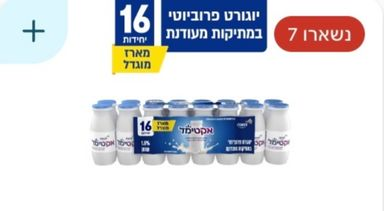
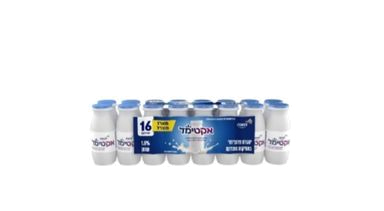
Photos retouchées par le gérant : dossiers 2 et 3 (20 de plus)
Vingt photos repère de plus dont il a effacé le « + », les pastilles et
l'étiquette de poids de Wolt : les deux étuis Nespresso qui manquaient,
le reste de l'épicerie (céréales, concentré de tomates, farine, feuilles
de vigne, huile, ketchup, mayonnaise, Nescafé, Nutella, riz, sucre, thon,
salades du traiteur) et trois Actimel. 30 sur 718 : tout le rayon
« Courses & épicerie » est fait.

L'outil reconnaît maintenant une retouche à ce qu'elle montre : tout ce
qui s'y voit était déjà dans la photo en service (une retouche efface et
n'ajoute rien). L'ancienne mesure, au centre de l'image, refusait une
photo dont une pastille touchait l'article, et un article détouré de son
fond gris.

Claude-Session: https://claude.ai/code/session_01JfiBMDfPpcu8d2j1eWQu1s

Changed region(s): [[0.2812, 0.0, 0.9688, 0.3697], [0.0, 0.0, 0.1875, 0.3128]]

diff --git a/tests/outils/poser-photos-retouchees.ts b/tests/outils/poser-photos-retouchees.ts
@@ -8,8 +8,9 @@
 //
 // Une image est reconnue à son NOM DE FICHIER : le nom de l'article, tel que l'export des photos le lui a donné
 // (« Lait Tnuva 3 % 1 L.jpg »), ou le nom du fichier repère. Elle n'est posée que si c'est bien LA MÊME photo
-// retouchée : même taille, et le même article au centre de l'image. Une AUTRE photo du même article n'est pas
-// une retouche : elle se pose comme photo de l'article (« Photos rapides »), pas ici.
+// retouchée : même taille, et tout ce qu'elle montre était déjà dans la photo en service (il efface le « + », une
+// pastille, une étiquette de poids posée par Wolt, parfois tout le fond — il n'ajoute rien). Une AUTRE photo du
+// même article n'est pas une retouche : elle se pose comme photo de l'article (« Photos rapides »), pas ici.
 // Les images reçues sont des données : on n'en lit que les points, rien n'en est exécuté.
 import { readdirSync, readFileSync, statSync, writeFileSync } from "node:fs";
 import path from "node:path";
@@ -19,8 +20,13 @@ import { DOSSIER_DES_REPERES, PHOTOS_REPERE } from "../../lib/reperes-wolt";
 /** Les repères déjà retouchés : fichier → le lot qui l'a apporté. Pour savoir où l'on en est. */
 const REGISTRE = "prive/reperes-retouches.json";
 const POIDS_MAX = 40_000; // comme tests/reperes-wolt.test.ts
-/** Écart moyen toléré au centre de l'image, sur 255 : au-delà, ce n'est pas la même photo. */
-const ECART_MAX = 8;
+/** Ce que la retouche montre doit se retrouver, presque point pour point, dans la photo en service… */
+const PART_DEJA_LA = 0.9;
+/**
+ * … et il doit rester une part de la photo en service : l'article lui-même. Une part seulement : sur une photo à
+ * fond gris (les salades du traiteur), il DÉTOURE l'article et tout le fond disparaît — il en reste un bon tiers.
+ */
+const PART_GARDEE = 0.2;
 
 /** Le nom de fichier que l'export des photos donne à un article (les signes interdits dans un nom de fichier retirés). */
 export function nomDeFichier(nom: string): string {
@@ -30,10 +36,23 @@ export function nomDeFichier(nom: string): string {
 const fichiersDe = (dossier: string): string[] =>
   readdirSync(dossier, { withFileTypes: true }).flatMap((e) => (e.isDirectory() ? fichiersDe(path.join(dossier, e.name)) : [path.join(dossier, e.name)]));
 
-/** Les points du centre de l'image (là où est l'article, loin du coin où Wolt pose son « + »), en niveaux de rouge, vert, bleu. */
-async function centre(octets: Buffer, largeur: number, hauteur: number): Promise<Buffer> {
-  const zone = { left: Math.round(largeur * 0.25), top: Math.round(hauteur * 0.2), width: Math.round(largeur * 0.55), height: Math.round(hauteur * 0.75) };
-  return sharp(octets).flatten({ background: "#ffffff" }).removeAlpha().extract(zone).raw().toBuffer();
+/** Les points de l'image, trois nombres chacun (rouge, vert, bleu), sur fond blanc. */
+const points = (octets: Buffer): Promise<Buffer> => sharp(octets).flatten({ background: "#ffffff" }).removeAlpha().raw().toBuffer();
+
+/**
+ * Deux images de même taille : `dejaLa` = la part de ce que montre la retouche (tout ce qui n'est pas blanc) qui
+ * est identique dans la photo en service ; `gardee` = la part de la photo en service qui est restée. Une retouche
+ * efface (le « + », une pastille) : dejaLa ≈ 1. Une autre photo, ou la photo d'un autre article : dejaLa bas.
+ */
+export function ressemblance(avant: Buffer, apres: Buffer): { dejaLa: number; gardee: number } {
+  const plein = (b: Buffer, i: number) => Math.min(b[i], b[i + 1], b[i + 2]) < 232;
+  let montre = 0, montreDejaLa = 0, avait = 0, avaitGarde = 0;
+  for (let i = 0; i + 2 < avant.length; i += 3) {
+    const pareil = Math.max(Math.abs(avant[i] - apres[i]), Math.abs(avant[i + 1] - apres[i + 1]), Math.abs(avant[i + 2] - apres[i + 2])) < 30;
+    if (plein(apres, i)) { montre++; if (pareil) montreDejaLa++; }
+    if (plein(avant, i)) { avait++; if (pareil) avaitGarde++; }
+  }
+  return { dejaLa: montre === 0 ? 0 : montreDejaLa / montre, gardee: avait === 0 ? 0 : avaitGarde / avait };
 }
 
 async function principal() {
@@ -63,16 +82,16 @@ async function principal() {
         refusees.push(`${nom} : ${apres.width} × ${apres.height}, la photo en service fait ${avant.width} × ${avant.height} — ce n'est pas une retouche`);
         continue;
       }
-      const [a, b] = await Promise.all([centre(readFileSync(cible), avant.width!, avant.height!), centre(recu, avant.width!, avant.height!)]);
-      let somme = 0;
-      for (let i = 0; i < a.length; i++) somme += Math.abs(a[i] - b[i]);
-      const ecart = somme / a.length;
-      if (ecart > ECART_MAX) { refusees.push(`${nom} : ce n'est pas la même photo que celle de l'article (écart ${ecart.toFixed(1)})`); continue; }
+      const r = ressemblance(await points(readFileSync(cible)), await points(recu));
+      if (r.dejaLa < PART_DEJA_LA || r.gardee < PART_GARDEE) {
+        refusees.push(`${nom} : ce n'est pas la photo en service retouchée (${Math.round(r.dejaLa * 100)} % de ce qu'elle montre y était, ${Math.round(r.gardee * 100)} % en est resté)`);
+        continue;
+      }
       // Un JPEG léger est posé tel quel ; sinon il est réécrit en JPEG.
       const jpeg = apres.format === "jpeg" && recu.length < POIDS_MAX ? recu : await sharp(recu).flatten({ background: "#ffffff" }).jpeg({ quality: 88 }).toBuffer();
       if (jpeg.length >= POIDS_MAX) { refusees.push(`${nom} : trop lourde (${jpeg.length} octets)`); continue; }
       if (poser) { writeFileSync(cible, jpeg); registre[fichier] = lot; }
-      posees.push(`${fichier}  ←  ${nom}`);
+      posees.push(`${fichier}  ←  ${nom}  (${Math.round(r.gardee * 100)} % de la photo gardée)`);
     } catch (e) {
       refusees.push(`${nom} : illisible (${e instanceof Error ? e.message : "erreur"})`);
     }

diff --git a/tests/reperes-wolt.test.ts b/tests/reperes-wolt.test.ts
@@ -4,7 +4,7 @@ import path from "node:path";
 import { describe, expect, it } from "vitest";
 import { DOSSIER_DES_REPERES, NOMBRE_DE_PHOTOS_REPERE, PHOTOS_REPERE, estPhotoRepere, photoRepere } from "@/lib/reperes-wolt";
 import { repereWolt } from "@/lib/repere-wolt";
-import { nomDeFichier } from "./outils/poser-photos-retouchees";
+import { nomDeFichier, ressemblance } from "./outils/poser-photos-retouchees";
 import { LOTS_WOLT } from "../prisma/remplissage";
 import { RELEVE_DU_12_NOVEMBRE, RELEVE_DU_POISSON_SURGELE, REMPLACEMENTS_DU_12_NOVEMBRE } from "../prisma/releve-wolt-1112";
 import { RELEVE_DES_BOISSONS } from "../prisma/articles-wolt-captures-boissons";
@@ -196,15 +196,36 @@ describe("photos repère", () => {
       expect(fichiers.has(fichier), fichier).toBe(true);
       expect(lot, fichier).toMatch(/^\d{4}-\d{2}-\d{2} · /);
     }
-    // Le premier lot : dix étuis de capsules Nespresso.
-    expect(Object.keys(registre).filter((f) => f.startsWith("capsules-nespresso-")).length).toBeGreaterThanOrEqual(10);
-    // L'outil ne pose qu'une retouche : même taille, même article au centre de l'image, rien d'écrit hors du dossier privé.
+    // Les premiers lots : les douze étuis de capsules Nespresso, puis le reste de l'épicerie.
+    expect(Object.keys(registre).filter((f) => f.startsWith("capsules-nespresso-")).length).toBeGreaterThanOrEqual(12);
+    expect(Object.keys(registre).length).toBeGreaterThanOrEqual(30);
+    // L'outil ne pose qu'une retouche : même taille, rien que la photo en service ne montrait déjà, rien d'écrit hors du dossier privé.
     const outil = readFileSync("tests/outils/poser-photos-retouchees.ts", "utf8");
     expect(outil).toContain("const cible = path.join(DOSSIER_DES_REPERES, fichier);");
     expect(outil).toContain("avant.width !== apres.width || avant.height !== apres.height");
-    expect(outil).toContain("if (ecart > ECART_MAX)");
+    expect(outil).toContain("if (r.dejaLa < PART_DEJA_LA || r.gardee < PART_GARDEE)");
     expect(outil.match(/writeFileSync\(/g)).toHaveLength(2); // la photo, et le registre
     expect(outil).not.toMatch(/public\/|photoUrl/);
+    // Une retouche efface (le « + », une pastille, une étiquette) et n'ajoute rien ; une autre image n'en est pas une.
+    const image = (dessin: (x: number, y: number) => [number, number, number]) => Buffer.from(Array.from({ length: 40 * 20 }, (_, i) => dessin(i % 40, Math.floor(i / 40))).flat());
+    const blanc: [number, number, number] = [255, 255, 255];
+    const article = (x: number, y: number) => x >= 14 && x < 26 && y >= 4 && y < 18;
+    const enService = image((x, y) => (article(x, y) ? [200, 40, 40] : x < 8 && y < 6 ? [10, 30, 50] : x >= 30 && y >= 12 ? [0, 0, 0] : blanc));
+    const retouchee = image((x, y) => (article(x, y) ? [203, 38, 41] : blanc)); // le « + » et l'étiquette effacés
+    const autre = image((x, y) => (x >= 4 && x < 30 && y >= 2 && y < 16 ? [40, 90, 200] : blanc));
+    expect(ressemblance(enService, retouchee).dejaLa).toBe(1);
+    expect(ressemblance(enService, retouchee).gardee).toBeGreaterThan(0.5); // l'article est resté, le « + » et l'étiquette non
+    expect(ressemblance(enService, autre).dejaLa).toBeLessThan(0.5);
+    expect(ressemblance(enService, image(() => blanc))).toEqual({ dejaLa: 0, gardee: 0 }); // une image vide n'est pas une retouche
+    // Une photo à fond gris dont il détoure l'article : tout le fond disparaît, l'article reste — c'est une retouche.
+    const surFondGris = image((x, y) => (article(x, y) ? [200, 40, 40] : [205, 205, 205]));
+    const detouree = ressemblance(surFondGris, retouchee);
+    expect(detouree.dejaLa).toBe(1);
+    expect(detouree.gardee).toBeGreaterThan(0.2);
+    expect(detouree.gardee).toBeLessThan(0.4);
+    // … mais un petit bout de la photo n'en est pas une.
+    expect(ressemblance(surFondGris, image((x, y) => (x >= 14 && x < 18 && y >= 4 && y < 8 ? [200, 40, 40] : blanc))).gardee).toBeLessThan(0.2);
+    expect(outil).toContain("const PART_GARDEE = 0.2;");
     // Le nom que l'export des photos donne à un article est celui que l'outil reconnaît.
     expect(nomDeFichier("Lait Tnuva 3 % 1 L")).toBe("Lait Tnuva 3 % 1 L");
     expect(nomDeFichier('Écran 24" : modèle A/B')).toBe("Écran 24 - modèle A-B");

diff --git a/CLAUDE.md b/CLAUDE.md
@@ -71,7 +71,7 @@ npm run seed         # catégories + réglages ; seed:demo ajoute des produits d
 - **« Je n'ai pas d'images alors que je t'ai tout envoyé de Wolt »** (le gérant, 17 novembre 2026, deux captures de l'ACCUEIL PUBLIC à l'appui — des cartes d'articles avec l'icône du rayon à la place d'une photo). Ce jour-là, « mets-moi toutes les photos ! » voulait dire : montre les photos de Wolt AUX CLIENTS, sur les articles du site. On ne le fait pas, et on le lui dit sans détour : ces photos sont celles de Wolt (découpées dans ses captures, souvent avec le « + » et les pastilles de Wolt dessus) ; lui envoyer une capture ne les rend pas siennes, et les publier sur un site qui revend les articles de Wolt l'expose auprès de Wolt, dont il dépend pour ses achats. Elles restent dans son espace (les 718 articles en vente ont la leur) — c'était la réponse de l'après-midi ; prévenu, il a décidé autrement le soir même (« Photos de Wolt pour tout le monde », plus bas : sa décision, on ne la rediscute pas). Ce qu'on lui propose pour les remplacer : « Photos rapides » → « Coller » (une image qu'il choisit lui-même, de préférence la photo de la marque), la photo prise au téléphone quand il a l'article en main (« Ajouter »), ou l'accord écrit de Wolt — alors elles se publient. LEÇON : « sans images » peut désigner son espace (15 novembre) OU le site public (17 novembre) — regarder sa capture ; s'il n'y en a pas, lui demander de quel écran il parle AVANT de chercher une panne. Ce jour-là on a d'abord cherché une panne d'affichage dans son espace, à tort : il n'y en avait pas. Il en reste un contrôle utile, lisible de l'extérieur : `/admin/repere/etat` (sans connexion : des NOMBRES seulement, jamais un nom ni une photo) dit combien de photos de la liste sont lisibles sur le serveur — 718 sur 718 — et ce que le serveur qui répond a fait des demandes de photos depuis son démarrage (servies, refusées, inconnues, illisibles). Pièges rencontrés : `pkill -f "next start"` ne tue PAS le serveur (le processus s'appelle `next-server`) — un ancien serveur reste sur le port et répond à la place du nouveau : `pkill -f next-server` ; et `npm run build` signale « Dynamic filesystem access causes tracing of the whole project » pour cette route (c'est ce qui embarque les photos : ne pas le « corriger » sans relire `/admin/repere/etat` après la mise en ligne).
 - **Vue du gérant sur le site** (17 novembre 2026, sa réponse au refus ci-dessus : « oui mais grâce à ces images de Wolt je peux chercher les images qui correspondent à chaque produit — alors mets-moi les images »). C'est sur SON site qu'il regarde ses articles : quand il est connecté à son espace sur l'appareil, chaque carte et chaque fiche de la boutique dont l'article n'a pas encore sa photo montre celle de Wolt, étiquetée « Wolt ». Une seule porte : `lib/vue-gerant.ts` — `vueDuGerant()` dit qui regarde (`gerant`, `pourTous`, `photosDeWolt`, `etiquettes`), `reperesPour(liste)` donne la photo de chaque article sans photo (elle relit le `nomWolt` sans le sortir) ; les lectures de `lib/catalogue.ts` passent toutes par `versPublics`, qui pose `ProduitPublic.repere` (`{ photo, etiquette }`, ou `null` : le visiteur ne reçoit alors même pas l'adresse). Affichage : `components/admin/ApercuGerant.tsx` (`ApercuSurCarte` à la place de l'icône du rayon ; `ApercuSurFiche` : la photo entière et, pour le gérant, « Mettre sa photo » → `/admin/produits/photos#p-<id>`, la ligne de l'article visée d'office dans « Photos rapides »). L'étiquette « Wolt » et ce lien n'existent que pour le gérant (`repere.etiquette`) : le site ne nomme jamais Wolt devant un client. Sous l'en-tête, le bandeau `BandeauDuGerant` (`components/admin/VueDuGerant.tsx`, rien pour un client ; en français, de gauche à droite, même sur une page en hébreu) dit qui voit ces photos, mène à « Photos rapides » et aux réglages, et porte « Voir comme un client » / « Revenir à ma vue » (`changerLaVueDuSite`, cookie `vue_client`, douze heures : un simple choix d'affichage, qui ne vaut rien sans la connexion du gérant). Une image qu'il colle dans « Photos rapides » prend la place de la photo de Wolt, pour lui comme pour ses clients. Les pages de la boutique ne sont gardées par aucun cache partagé (`force-dynamic`, `private, no-store`) : ne jamais en ajouter un sans sortir `repere` de ce qui est gardé. Vérifier : `tests/navigateur/vue-gerant.mjs` (112 vérifications, dans les deux états du réglage ci-dessous ; il coche et décoche le réglage puis le remet : base locale seulement — `SANS_GERANT=1` sur le vrai site : la partie « client » seule, sans rien modifier), `tests/reperes-wolt.test.ts`.
 - **Photos de Wolt pour tout le monde** (décision du gérant, 17 novembre 2026 au soir : « le site a 0 client, on est 2 à bosser dessus et on ne peut pas se connecter à l'admin à chaque fois — active-moi les photos pour tout le monde »). Prévenu deux fois, le jour même, que ces photos sont celles de Wolt et des marques et de ce que cela risque auprès de Wolt, il a choisi : c'est SA décision, on l'applique sans la rediscuter. C'est un RÉGLAGE, pas du code : `Reglages.photosWoltPourTous` (Réglages → « Photos de Wolt pour tout le monde », faux par défaut dans le schéma), coché une seule fois par la mise en ligne (`montrerLesPhotosDeWoltATous`, clé dans `operationsFaites`) — s'il le décoche, il le reste. Coché : tout visiteur voit la photo de Wolt sur les articles sans photo (sans étiquette), et la route `/admin/repere/<fichier>` la sert sans connexion (`public, max-age=600` : décochée, la case fait effet en dix minutes au plus ; le réglage lui-même est relu toutes les dix secondes, `photosDeWoltPourTous`). Décoché : retour à la vue du gérant seule, la route exige de nouveau sa connexion. Dans les deux cas ces photos restent hors de `public/`, ne sont jamais copiées dans `photoUrl`, et les moteurs de recherche n'y vont pas (`/admin` fermé dans `robots.txt`, en-tête `noindex`). `/admin/repere/etat` porte `pourTous` : on lit de l'extérieur l'état du réglage. Ce qui reste vrai, à lui redire UNE fois quand il annoncera des clients (pas avant, pas à chaque message) : décocher la case, ou d'ici là remplacer les photos par les siennes dans « Photos rapides » — chaque image collée prend la place de celle de Wolt. Ne pas étendre : pas de photo de Wolt dans un e-mail, la carte d'aperçu de lien, le panier, ni comme photo enregistrée d'un article. S'il envoie une capture du site avec des photos de Wolt, c'est normal : le réglage est coché.
-- **Les photos de Wolt retouchées par le gérant** (24 novembre 2026 : « si je t'envoie un fichier zip, tu peux le décompresser ? j'ai mes nouvelles images dedans » — après avoir reçu l'export de toutes les photos du site, un ZIP rangé par rayon où chaque image porte le nom de l'article). Ses « nouvelles images » sont les MÊMES photos repère (384 × 211), dont il a effacé le « + » et les pastilles de Wolt : il les renvoie par lots, dans un ZIP, sous le nom que l'export leur a donné (« Capsules Nespresso Capriccio 60 g.jpg »). Chaque retouche REMPLACE le fichier de `prive/reperes-wolt` qu'elle retouche — même nom de fichier, donc rien d'autre ne change : le site la montre partout où il montrait l'ancienne (cartes, fiches, espace gérant), sous le même réglage « Photos de Wolt pour tout le monde », et le gérant connecté la voit toujours étiquetée « Wolt ». Elle RESTE une photo repère : jamais dans `public/`, jamais copiée dans `photoUrl` — effacer le « + » ne change pas à qui est la photo ; on le lui a dit une fois, en lui laissant le choix d'en faire les photos définitives de ces articles s'il le demande en le sachant. Poser un lot : décompresser l'archive dans un dossier vide à elle (données reçues : on n'en lit que les points), `npx tsx tests/outils/poser-photos-retouchees.ts <dossier>` (essai à blanc), puis `--poser`. L'outil ne pose qu'une vraie retouche — un article de ce nom existe, même taille que la photo en service, le même article au centre de l'image (une image glissée sous un mauvais nom est refusée), moins de 40 Ko — et note le lot dans `prive/reperes-retouches.json` (où l'on en est : 10 sur 718, les étuis de capsules Nespresso ; il en manquait deux dans son premier dossier, les deux Volluto). Regarder tout de même le lot sur une planche avant de le poser, lui dire le compte (posées, refusées et pourquoi) et ce qui manque. Une AUTRE photo du même article (une vraie photo de marque, plus grande) n'est pas une retouche : elle se pose comme photo de l'article (« Photos rapides »), pas ici. Après la mise en ligne, l'ancienne image peut rester dix minutes dans les caches (`max-age=600`). `tests/reperes-wolt.test.ts`.
+- **Les photos de Wolt retouchées par le gérant** (24 novembre 2026 : « si je t'envoie un fichier zip, tu peux le décompresser ? j'ai mes nouvelles images dedans » — après avoir reçu l'export de toutes les photos du site, un ZIP rangé par rayon où chaque image porte le nom de l'article). Ses « nouvelles images » sont les MÊMES photos repère (384 × 211), dont il a effacé le « + » et les pastilles de Wolt : il les renvoie par lots, dans un ZIP, sous le nom que l'export leur a donné (« Capsules Nespresso Capriccio 60 g.jpg »). Chaque retouche REMPLACE le fichier de `prive/reperes-wolt` qu'elle retouche — même nom de fichier, donc rien d'autre ne change : le site la montre partout où il montrait l'ancienne (cartes, fiches, espace gérant), sous le même réglage « Photos de Wolt pour tout le monde », et le gérant connecté la voit toujours étiquetée « Wolt ». Elle RESTE une photo repère : jamais dans `public/`, jamais copiée dans `photoUrl` — effacer le « + » ne change pas à qui est la photo ; on le lui a dit une fois, en lui laissant le choix d'en faire les photos définitives de ces articles s'il le demande en le sachant. Poser un lot : décompresser l'archive dans un dossier vide à elle (données reçues : on n'en lit que les points), `npx tsx tests/outils/poser-photos-retouchees.ts <dossier>` (essai à blanc), puis `--poser`. L'outil ne pose qu'une vraie retouche — un article de ce nom existe, même taille que la photo en service, et ce que l'image montre était DÉJÀ dans la photo en service (`ressemblance` : une retouche efface et n'ajoute rien — le « + », les pastilles, l'étiquette de poids de Wolt, parfois tout le fond gris d'une photo du traiteur, détourée ; une image glissée sous un mauvais nom, ou une autre photo du même article, est refusée), moins de 40 Ko — et note le lot dans `prive/reperes-retouches.json`. Où l'on en est : 30 sur 718 (trois dossiers de dix le 24 novembre) — tout le rayon « Courses & épicerie » (27 articles, dont les 12 étuis Nespresso) et trois Actimel de la Crèmerie ; il reste 606 photos de Wolt non retouchées sur des articles en vente (Crèmerie 228, Boissons 157, Électronique 80, Pain 75, Boucherie & poisson 24, Apéro 22, Entretien 15, Surgelés 3, Fruits & légumes 2). Ses archives arrivent avec des noms de fichiers aux accents décomposés (« é » en deux signes) : l'outil les lit quand même (`normalize("NFC")`). Regarder tout de même le lot sur une planche avant de le poser, lui dire le compte (posées, refusées et pourquoi) et ce qui manque. Une AUTRE photo du même article (une vraie photo de marque, plus grande) n'est pas une retouche : elle se pose comme photo de l'article (« Photos rapides »), pas ici. Après la mise en ligne, l'ancienne image peut rester dix minutes dans les caches (`max-age=600`). `tests/reperes-wolt.test.ts`.
 - **Ce que Wolt ne vend pas est SUPPRIMÉ du site** (décision du gérant, 15 novembre 2026 : « tout ce que tu ne vois pas sur les photos, tu me le supprimes — je ne peux pas faire des produits que Wolt n'a pas »). La seule preuve qu'un article n'est pas chez Wolt est la page ENTIÈRE de son rayon : une liste par page entière reçue, dans `prisma/absents-de-wolt.ts` (`ABSENTS_DE_WOLT`), appliquée une seule fois par `supprimerLesAbsentsDeWolt` (supprimés pour de bon — masqués, ils resteraient dans son espace ; une commande passée garde sa ligne). Une page partielle (« Les plus commandés », « Promotions », des captures d'écran qui ne se recouvrent pas) ne prouve RIEN : ne rien supprimer d'après elle, et le lui dire — une suppression « de tout ce qui n'a pas de photo » aurait emporté un tiers du catalogue, dont des rayons entiers dont il n'a jamais envoyé la page. Fait : le rayon Boissons (page entière du 15 novembre, 261 cartes) — 16 boissons supprimées, 157 restent. Ne sont jamais dans ces listes : un article que Wolt affichait lors d'un relevé précédent et plus ce jour-là (il a son nom exact, son prix, souvent sa photo ; Wolt peut le remettre en rayon : on le signale au gérant, qui décide de le masquer) ; un article de sa liste dont il a noté lui-même le prix d'achat (il l'a trouvé sur Wolt : `prixAchat: null` dans la condition). Pour un autre rayon : lui demander la page entière (« כל הפריטים » du rayon, défilée jusqu'en bas), comparer TOUS les articles en vente du rayon à la page — pas seulement ceux sans photo —, lui montrer la liste, puis ajouter une entrée (`tests/absents-de-wolt.test.ts`).
 - **Ce qui a sa photo de Wolt se vend** (décision du gérant, 16 novembre 2026 : « mets-moi même les produits que tu as supprimés, si tu as les images »). Les 21 articles SUPPRIMÉS n'avaient aucune image (ils l'ont été parce que Wolt ne les montrait pas) : aucun n'est revenu. Mais 40 articles MASQUÉS avaient leur photo ; on lui a posé la question groupe par groupe, avec la raison de chaque masquage, et il a choisi les trois : 7 boissons que Wolt n'affichait plus le 15 novembre, 20 poissons surgelés, 13 viandes et volailles (`prisma/remise-en-vente-1116.ts`, `remettreEnVenteCeQuiAUnePhoto`, une seule fois, seulement un article encore masqué qui a un prix ; `tests/remise-en-vente-avec-photo.test.ts`). Sa règle — je reconnais l'article, donc je le vends — passe donc AVANT ses décisions du 11 novembre (viande : cacherout) et du 15 (poisson surgelé, boissons absentes de la page entière), mais pour ces 40 articles seulement : les 27 viandes, les 2 poissons surgelés et les 339 autres articles sans photo restent masqués, l'alcool reste « à réfléchir », la liste Dynamica reste masquée. Quand une capture montre un article masqué, il reçoit sa photo et revient en vente — SAUF ce qu'il a retiré lui-même le 19 novembre (plus bas) : la viande et le poulet frais, le poisson frais et surgelé, la viande surgelée et les glaces ne reviennent que sur sa demande ; ne pas AJOUTER de nouveaux articles de viande pour autant (`tests/retrait-viande.test.ts`). Le rayon où la viande revient a repris son nom, « Boucherie & poisson » (« Meat & fish », « Мясо и рыба », « בשר ודגים », « Carne y pescado » : `rayons.poisson` des cinq dictionnaires), à la MÊME adresse `poisson` ; la viande s'y range dans le sous-rayon « Viande & volaille », qui existait déjà. Résultat ce jour-là : 718 articles en vente, qui ont tous leur photo de Wolt (Crèmerie 235, Boissons 157, Électronique 80, Pain 75, Boucherie & poisson 53, Fruits & légumes 40, Épicerie 27, Apéro 22, Entretien 15, Surgelés 14) — 678 depuis ses retraits du 19 novembre (Boucherie & poisson 24, Surgelés 3) ; plus aucun rayon ne tient en 12 articles (`parcours-rayons.mjs` suit les surgelés comme un rayon à sous-rayons). Les 7 boissons peuvent manquer sur Wolt le jour d'une commande : il le sait.
 - **Viande et poulet frais : retirés** (décision du gérant, 19 novembre 2026 : « enlève-moi tout ce qui est viande, poulet frais »). Sept des treize viandes revenues en vente le 16 — celles dont le nom dit « frais », toutes au poids, rayon « Boucherie & poisson » : cinq poulets (blanc, aiguillettes, émincé, steaks de pargit, assortiment) et deux bœufs (entrecôte, émincé) — sont MASQUÉES une seule fois (`VIANDE_FRAICHE`, `prisma/retrait-viande-fraiche-1119.ts` ; `retirerLaViandeFraiche`, lancée APRÈS `remettreEnVenteCeQuiAUnePhoto` : sur une base neuve celle-ci les remet d'abord en vente). Masquées, pas supprimées : elles gardent nom, prix et photo dans son espace ; ce qu'il remet en vente lui-même y reste. Il n'a parlé que du FRAIS : restent en vente la charcuterie sous vide (deux saucisses et deux pastramis Tirat Zvi, seuls articles du sous-rayon « Viande & volaille » désormais) et les deux surgelés (blanc de poulet, bœuf haché) — on le lui a dit ; s'il veut les retirer aussi, une opération de plus, sur sa demande. Désormais une capture de Wolt ne ramène plus de viande ni de poulet frais en vente : seulement s'il le demande. 711 articles en vente après ce retrait, Boucherie & poisson 46 (`tests/retrait-viande-fraiche.test.ts`).
